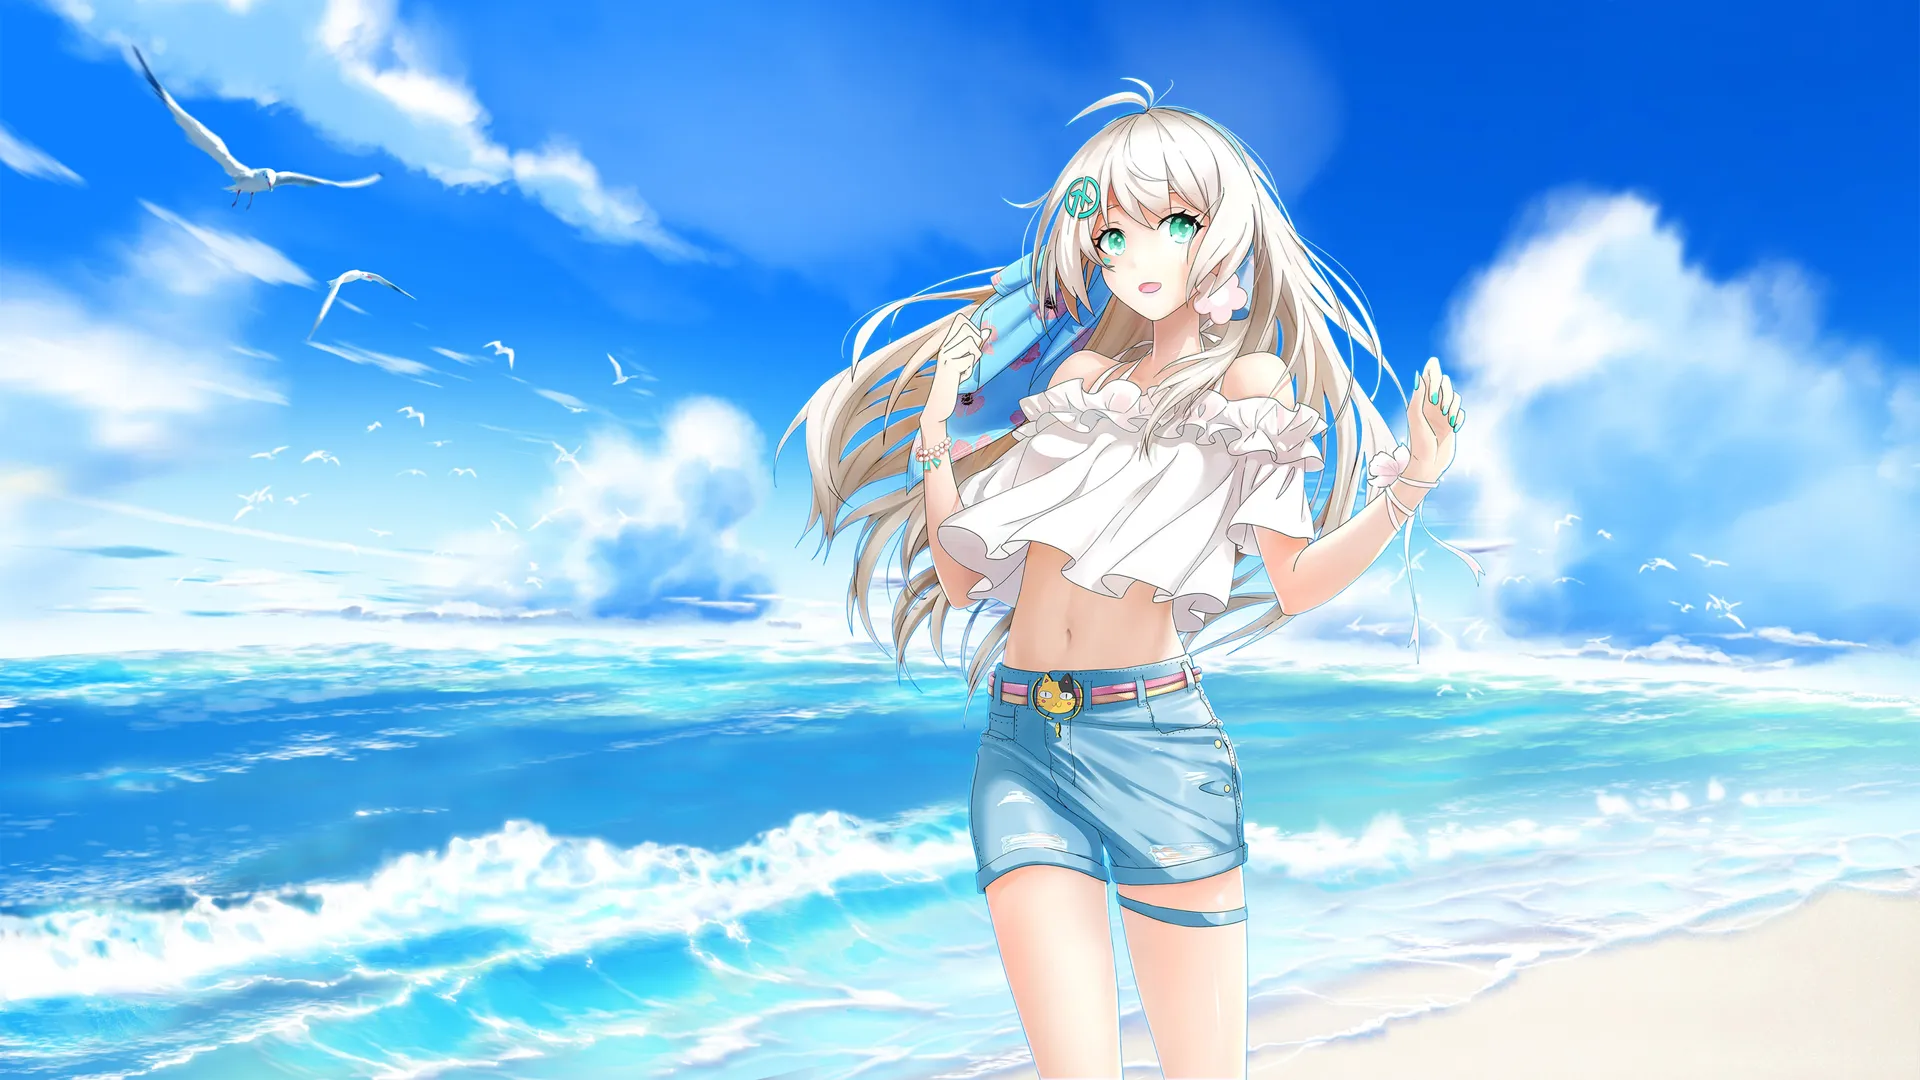
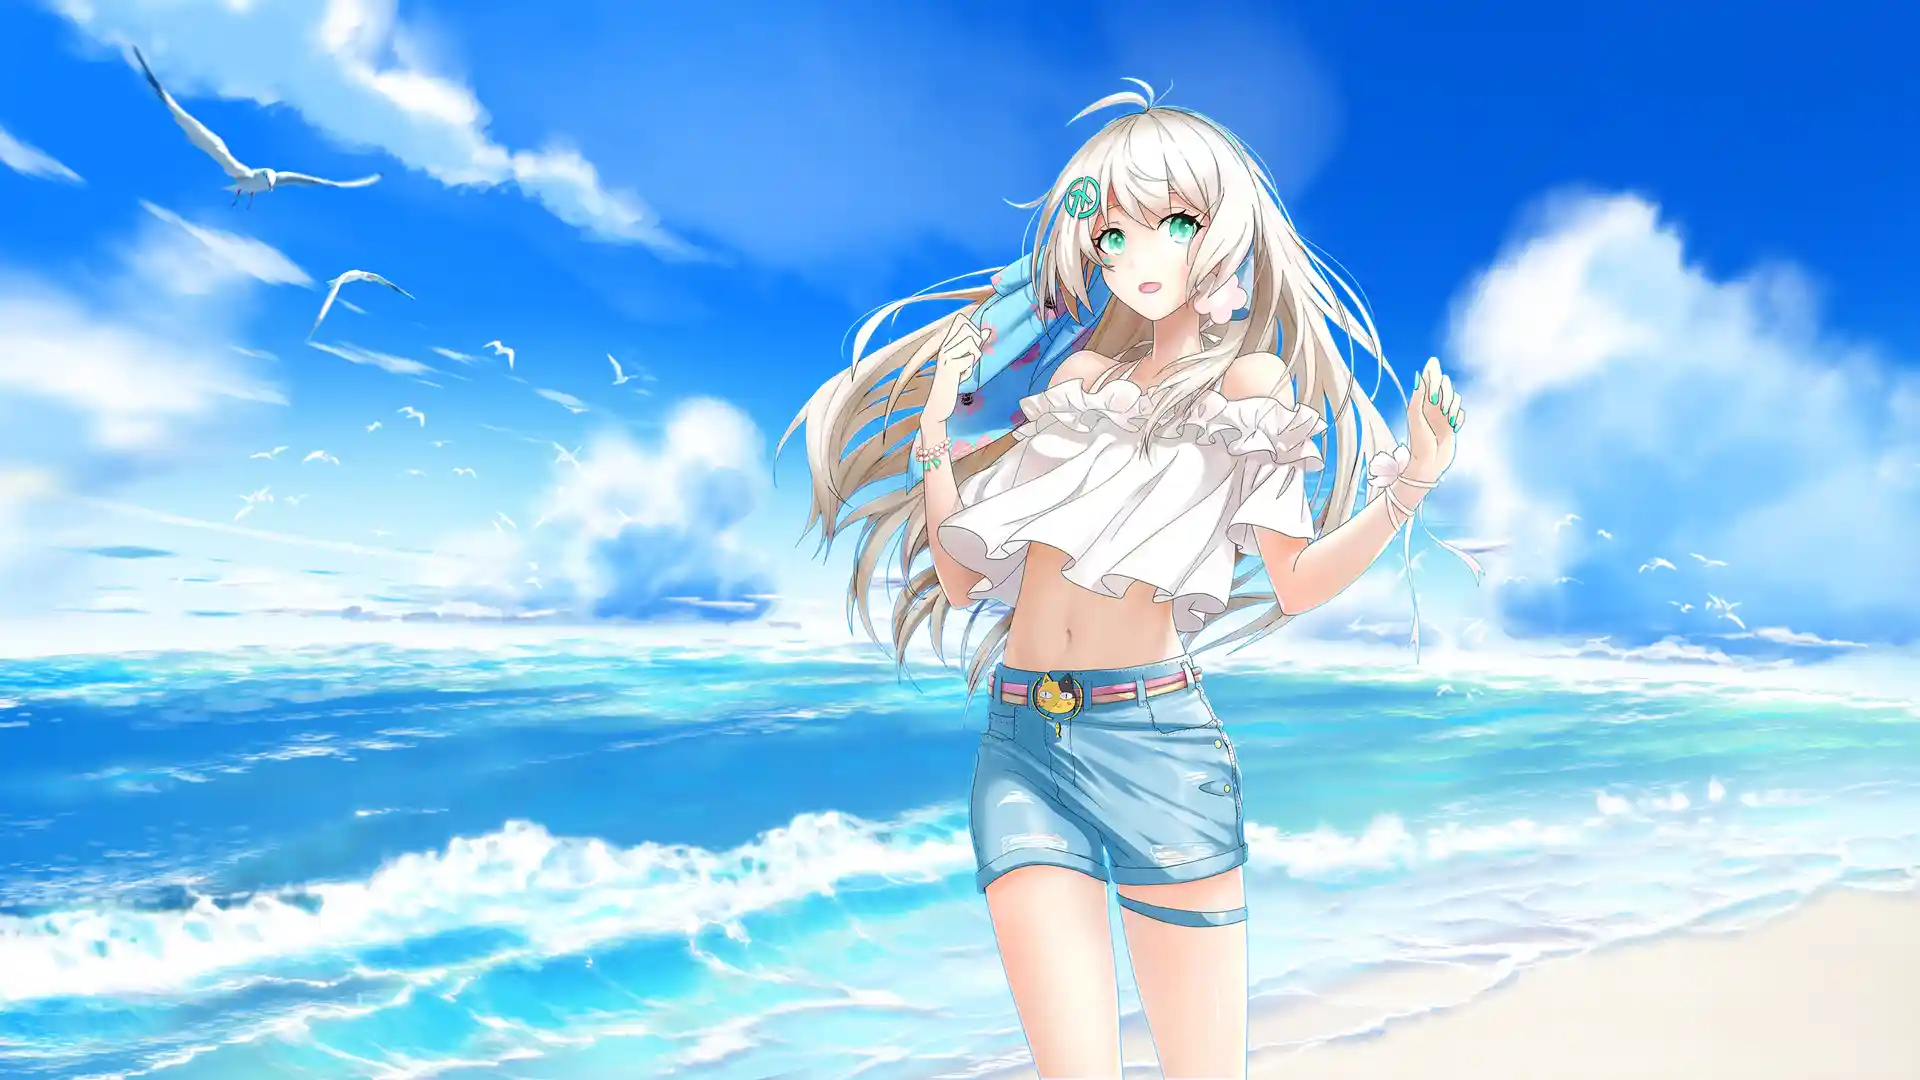
11

diff --git a/util/imgSpider.js b/util/imgSpider.js
@@ -1,7 +1,7 @@
 /*
  * @Author       : helishou
  * @Date         : 2021-07-13 23:46:18
- * @LastEditTime : 2021-07-14 20:41:58
+ * @LastEditTime : 2021-07-14 20:47:10
  * @LastEditors  : helishou
  * @Description  :
  * @FilePath     : \util\imgSpider.js
@@ -69,7 +69,11 @@ function imgSpider(url, dest = "", timeout = 1000 * 3 * 60, retries = 2) {
  */
 const imgToWebp = (dest) => {
   console.log(dest);
-  const result = webp.cwebp(dest, dest + ".webp", "-q 80", (logging = "-v"));
+  let qulity=80
+  if(dest.indexOf('small')!=-1){
+    qulity=30
+  }
+  const result = webp.cwebp(dest, dest + ".webp", "-q "+qulity);
   result.then((response) => {
     // console.log(response);
   });
